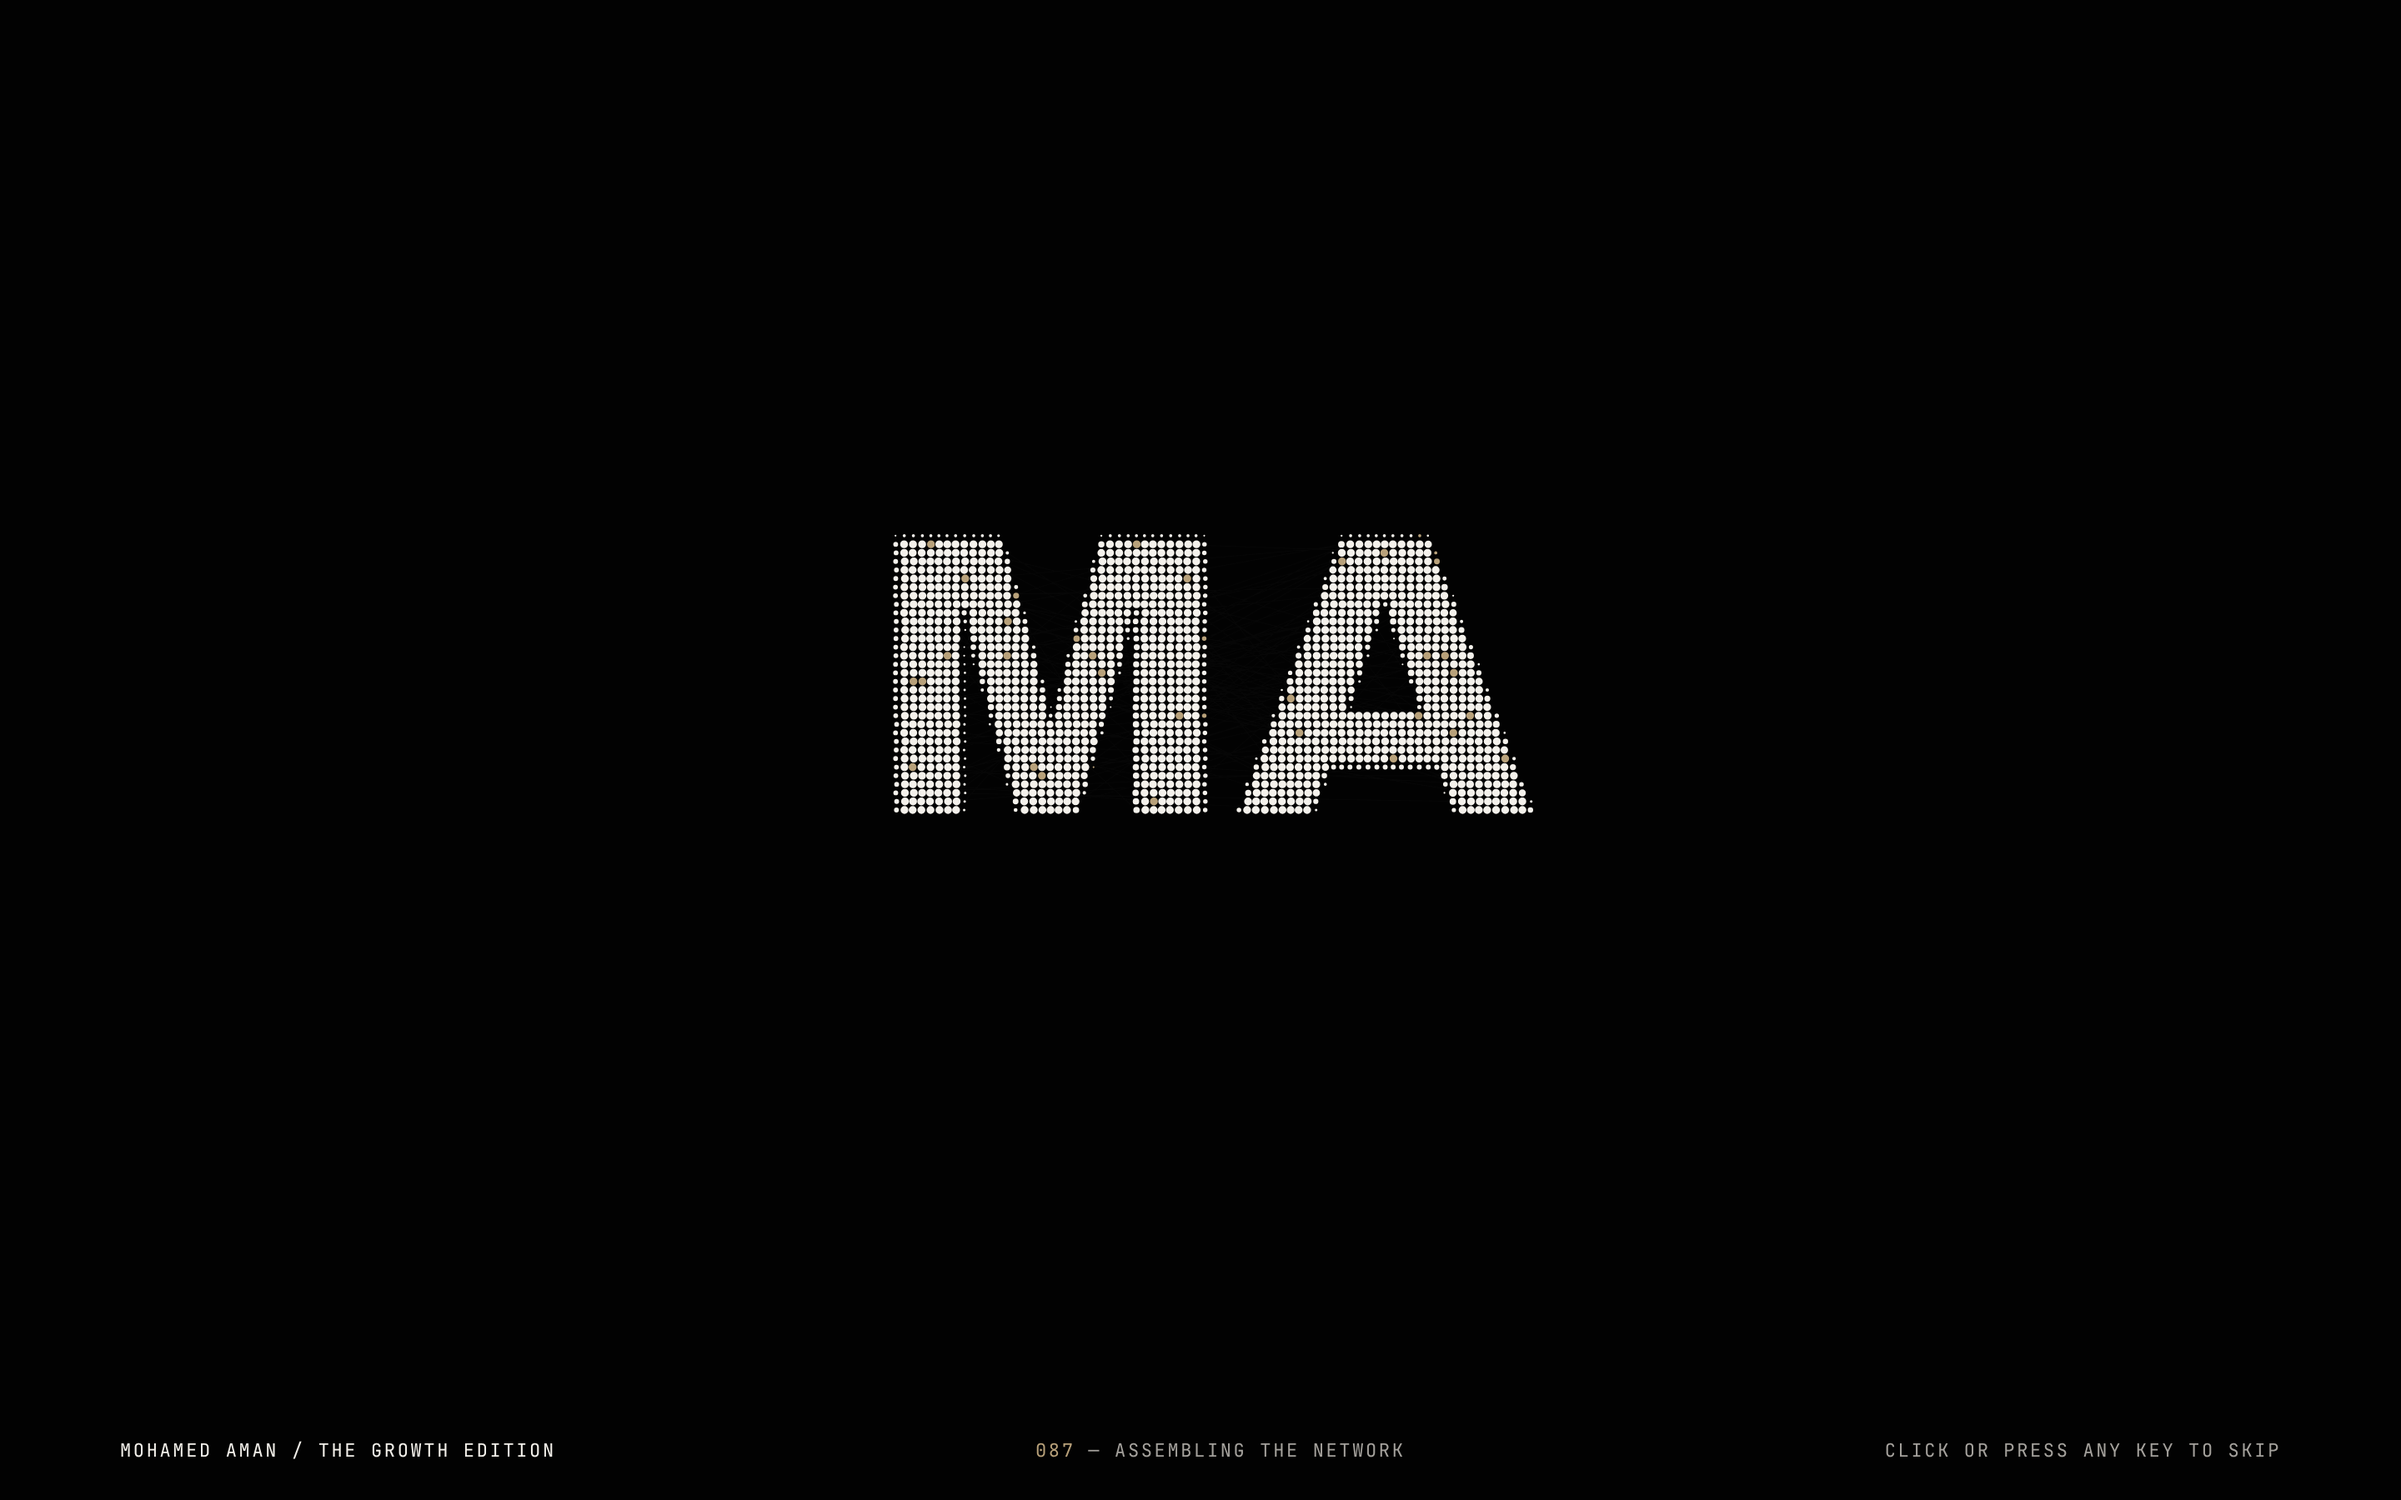
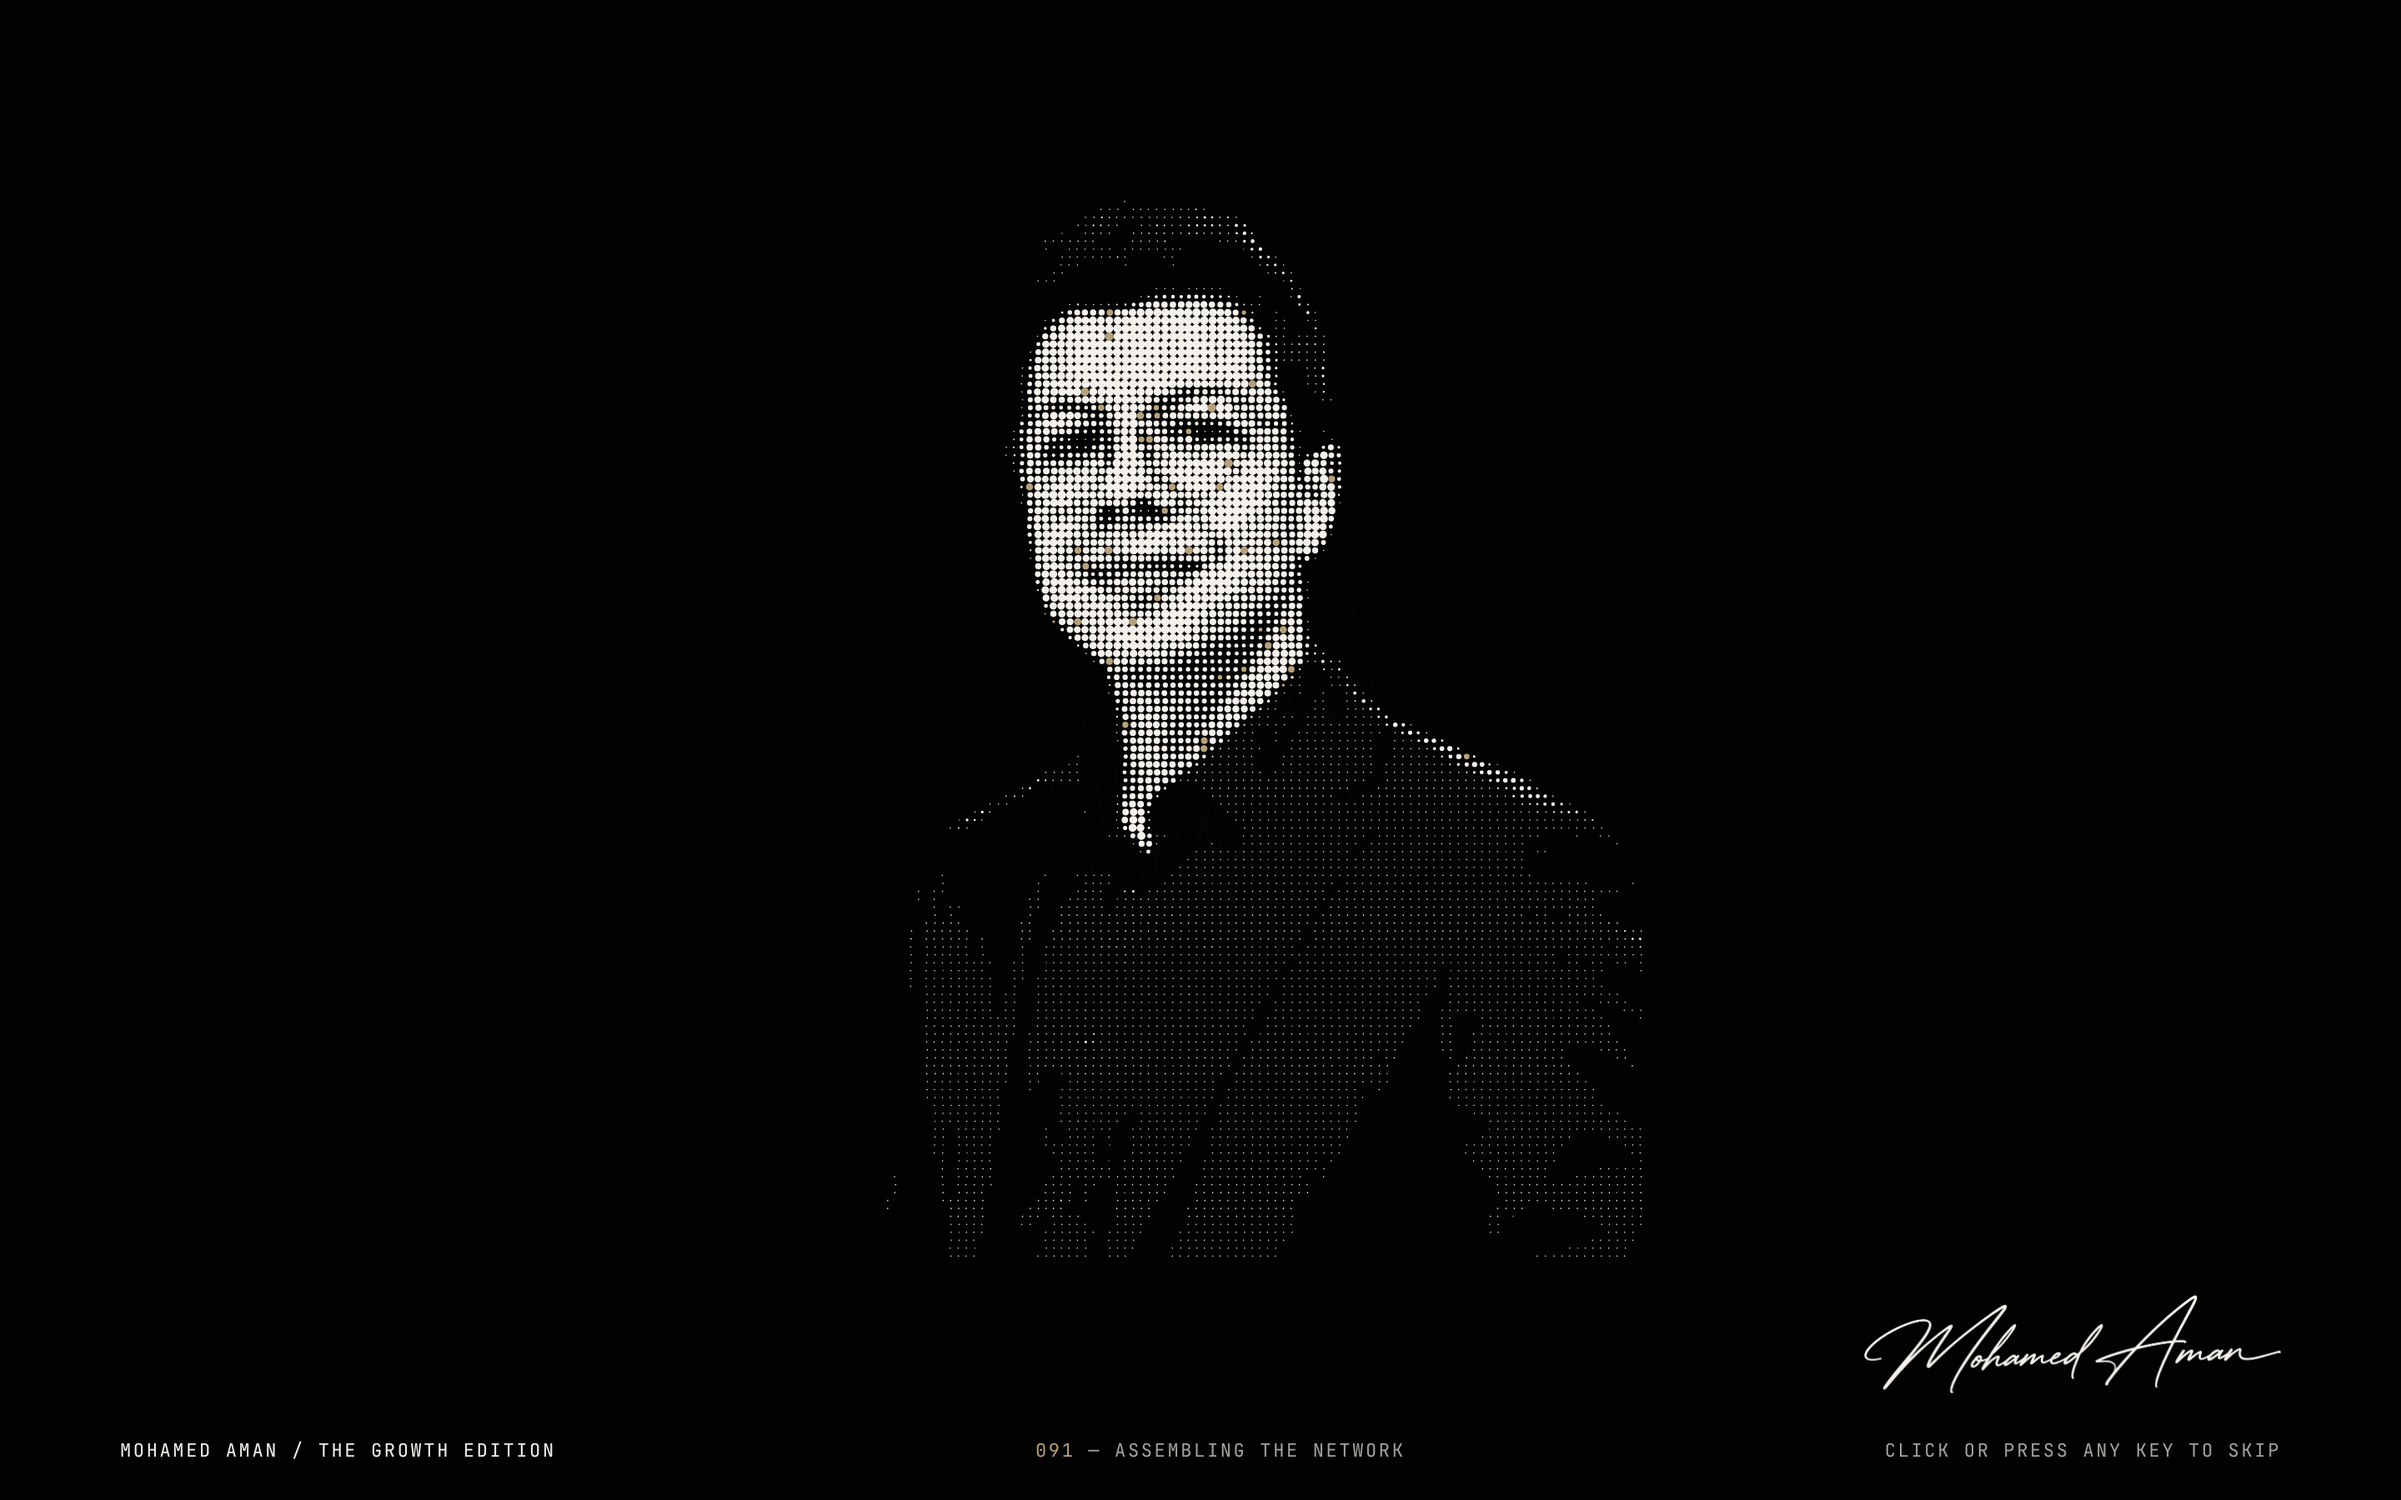
Add Mohamed's portrait, signature and photos; intro builds the portrait from dots
- Studio portrait in the Intro and About sections
- Opening intro assembles a halftone of the portrait from network dots,
  with the handwritten signature fading in
- Real signature replaces the typographic placeholder site-wide
- About page gains an 'Off the record' strip with the illustrated
  portrait and a candid photo
- Assets are picked up by filename from src/assets with placeholder fallbacks

Claude-Session: https://claude.ai/code/session_01Xw4xg9rdo12uLmioCFHsEj

Changed region(s): [[0.375, 0.1867, 0.6562, 0.56], [0.7812, 0.8711, 0.9375, 0.9333]]

diff --git a/src/components/portfolio/IntroOverlay.tsx b/src/components/portfolio/IntroOverlay.tsx
@@ -1,6 +1,7 @@
 import { useEffect, useRef, useState } from 'react';
 import { profile } from '../../data/portfolio';
-import { portraitUrl } from '../../lib/portrait';
+import { introPortraitUrl } from '../../lib/portrait';
+import Signature from './Signature';
 
 interface Dot {
   sx: number;
@@ -37,12 +38,12 @@ async function sampleFigure(cols: number): Promise<{ cols: number; rows: number;
   const g = c.getContext('2d', { willReadFrequently: true })!;
   g.fillStyle = '#000';
   g.fillRect(0, 0, cols, rows);
-  const img = portraitUrl ? await loadImage(portraitUrl) : null;
+  const img = introPortraitUrl ? await loadImage(introPortraitUrl) : null;
   if (img) {
     const s = Math.max(cols / img.width, rows / img.height);
     const w = img.width * s;
     const h = img.height * s;
-    g.filter = 'grayscale(1) contrast(1.25) brightness(1.1)';
+    g.filter = 'grayscale(1) contrast(1.3) brightness(0.98)';
     g.drawImage(img, (cols - w) / 2, (rows - h) * 0.3, w, h);
   } else {
     await Promise.race([
@@ -99,13 +100,13 @@ export default function IntroOverlay({ onDone }: { onDone(): void }) {
       const dpr = Math.min(2, window.devicePixelRatio || 1);
       canvas.width = w * dpr;
       canvas.height = h * dpr;
-      const figH = Math.min(h * 0.6, w * 0.9 * 1.25, 600);
-      const cols = w < 720 ? 56 : 84;
+      const figH = Math.min(h * 0.74, w * 0.92 * 1.25, 760);
+      const cols = w < 720 ? 72 : 112;
       const fig = await sampleFigure(cols);
       if (dead) return;
       const cell = figH / fig.rows;
       const ox = w / 2 - (fig.cols * cell) / 2;
-      const oy = h * 0.46 - figH / 2;
+      const oy = h * 0.47 - figH / 2;
       let seed = 7;
       const rnd = () => {
         seed = (seed * 16807) % 2147483647;
@@ -115,7 +116,7 @@ export default function IntroOverlay({ onDone }: { onDone(): void }) {
       for (let y = 0; y < fig.rows; y++) {
         for (let x = 0; x < fig.cols; x++) {
           const l = fig.cells[y * fig.cols + x];
-          if (l < 0.13) continue;
+          if (l < 0.06) continue;
           const tx = ox + (x + 0.5) * cell;
           const ty = oy + (y + 0.5) * cell;
           const a = Math.atan2(ty - h / 2, tx - w / 2) + (rnd() - 0.5) * 0.9;
@@ -125,7 +126,7 @@ export default function IntroOverlay({ onDone }: { onDone(): void }) {
             sy: rnd() * h,
             tx,
             ty,
-            r: Math.max(0.5, cell * 0.46 * Math.pow(l, 0.8)),
+            r: Math.max(0.4, cell * 0.56 * Math.pow(l, 1.15)),
             delay: rnd() * 0.45,
             vx: Math.cos(a) * speed,
             vy: Math.sin(a) * speed,
@@ -211,6 +212,9 @@ export default function IntroOverlay({ onDone }: { onDone(): void }) {
   return (
     <div className={`intro-overlay${leaving ? ' is-leaving' : ''}`} role="presentation">
       <canvas ref={canvasRef} aria-hidden="true" />
+      <div className="intro-overlay__sig">
+        <Signature />
+      </div>
       <div className="intro-overlay__bar">
         <p className="micro">
           {profile.name} <span aria-hidden="true">/</span> {profile.edition}

diff --git a/src/styles/app.css b/src/styles/app.css
@@ -795,6 +795,9 @@ h3 {
   margin: 0 auto;
 }
 .chapter--flush {
+  width: 100%;
+  max-width: none;
+  margin: 0;
   padding-inline: 0;
   padding-block: 56px;
   border-bottom: 0;
@@ -903,6 +906,46 @@ h3 {
   transform: rotate(-4deg);
   transform-origin: left bottom;
   padding: 6px 8px 0 0;
+}
+.signature__img {
+  display: block;
+  width: clamp(170px, 20vw, 250px);
+  height: auto;
+}
+.intro-overlay__sig {
+  position: absolute;
+  right: var(--gutter);
+  bottom: 64px;
+  opacity: 0;
+  animation: sig-in 0.9s ease 1.5s forwards;
+}
+@keyframes sig-in {
+  to {
+    opacity: 1;
+  }
+}
+.sides {
+  display: grid;
+  grid-template-columns: minmax(0, 1fr) minmax(0, 1fr) minmax(0, 1.1fr);
+  gap: clamp(16px, 3vw, 40px);
+  align-items: end;
+}
+.sides figure {
+  display: grid;
+  gap: 8px;
+}
+.sides img {
+  display: block;
+  width: 100%;
+  height: auto;
+  aspect-ratio: 3 / 4;
+  object-fit: cover;
+  border: 1px solid var(--border);
+  filter: grayscale(1) contrast(1.05);
+  transition: filter 0.6s ease;
+}
+.sides figure:hover img {
+  filter: none;
 }
 .signature__note {
   font-size: 9px;
@@ -1641,8 +1684,7 @@ h3 {
   width: 100%;
   height: 100%;
   object-fit: cover;
-  object-position: center 25%;
-  filter: grayscale(1) contrast(1.05);
+  object-position: center 20%;
 }
 
 /* ───────────── responsive ───────────── */
@@ -1708,6 +1750,17 @@ h3 {
   }
   .rail__label {
     display: none;
+  }
+  .sides {
+    grid-template-columns: 1fr 1fr;
+  }
+  .sides .lede {
+    grid-column: 1 / -1;
+  }
+  .intro-overlay__sig {
+    right: auto;
+    left: var(--gutter);
+    bottom: 92px;
   }
   .intro-overlay__skip {
     display: none;

diff --git a/src/pages/About.tsx b/src/pages/About.tsx
@@ -2,6 +2,7 @@ import { Link } from 'react-router-dom';
 import Portrait from '../components/portfolio/Portrait';
 import Signature from '../components/portfolio/Signature';
 import { expertise, hubs, profile } from '../data/portfolio';
+import { candidUrl, illustrationUrl } from '../lib/portrait';
 
 export default function About() {
   return (
@@ -33,6 +34,29 @@ export default function About() {
           <Signature />
         </div>
       </div>
+
+      {(illustrationUrl || candidUrl) && (
+        <section className="chapter chapter--flush">
+          <h2>Off the record</h2>
+          <div className="sides">
+            {illustrationUrl && (
+              <figure className="rv">
+                <img src={illustrationUrl} alt="Illustrated portrait of Mohamed Aman in round sunglasses" loading="lazy" width="800" height="1096" />
+                <figcaption className="micro">The illustrated version</figcaption>
+              </figure>
+            )}
+            {candidUrl && (
+              <figure className="rv">
+                <img src={candidUrl} alt="Mohamed Aman in sunglasses, smiling and giving a thumbs up" loading="lazy" width="1000" height="1333" />
+                <figcaption className="micro">Between campaigns</figcaption>
+              </figure>
+            )}
+            <p className="lede">
+              Serious about the numbers, relaxed about everything else. Good marketing is made by people — it helps to be one.
+            </p>
+          </div>
+        </section>
+      )}
 
       <section className="chapter chapter--flush">
         <h2>How the work is approached</h2>

diff --git a/src/lib/portrait.ts b/src/lib/portrait.ts
@@ -1,12 +1,23 @@
 /**
- * Drop Mohamed's real photo at `src/assets/portrait.webp` (or .jpg / .jpeg / .png).
- * It is picked up automatically: the opening intro builds it out of dots and the
- * Intro / About sections show it. With no file present, labelled placeholders are used.
+ * Mohamed's own media, picked up automatically from `src/assets/`:
+ *   portrait.*        studio portrait (Intro / About)
+ *   portrait-intro.*  tighter head-and-shoulders crop that the opening intro builds out of dots
+ *   signature.*       handwritten signature (white ink, transparent background)
+ *   illustration.*    illustrated portrait
+ *   candid.*          informal photo
+ * Any that is missing falls back to a labelled placeholder or is simply left out.
  */
-const found = import.meta.glob('../assets/portrait.{webp,jpg,jpeg,png}', {
+const found = import.meta.glob('../assets/*.{webp,jpg,jpeg,png,svg}', {
   eager: true,
   query: '?url',
   import: 'default',
 }) as Record<string, string>;
 
-export const portraitUrl: string | undefined = Object.values(found)[0];
+const pick = (name: string): string | undefined =>
+  Object.entries(found).find(([path]) => path.split('/').pop()!.replace(/\.[^.]+$/, '') === name)?.[1];
+
+export const portraitUrl = pick('portrait');
+export const introPortraitUrl = pick('portrait-intro') ?? portraitUrl;
+export const signatureUrl = pick('signature');
+export const illustrationUrl = pick('illustration');
+export const candidUrl = pick('candid');

diff --git a/src/components/portfolio/Signature.tsx b/src/components/portfolio/Signature.tsx
@@ -1,10 +1,15 @@
 import { profile } from '../../data/portfolio';
+import { signatureUrl } from '../../lib/portrait';
 
-/**
- * Typographic stand-in. Replace with the real handwriting asset at /media/mohamed-signature.svg
- * (see README) — this is NOT Mohamed's authentic signature.
- */
+/** Mohamed's handwritten signature (`src/assets/signature.*`), or a labelled typographic stand-in without it. */
 export default function Signature() {
+  if (signatureUrl) {
+    return (
+      <p className="signature">
+        <img className="signature__img" src={signatureUrl} alt={`${profile.name} — signature`} width="1005" height="236" loading="lazy" />
+      </p>
+    );
+  }
   return (
     <p className="signature" title="Typographic placeholder — the real handwritten signature will replace this">
       <span className="signature__ink">{profile.name}</span>

diff --git a/src/components/portfolio/Portrait.tsx b/src/components/portfolio/Portrait.tsx
@@ -5,7 +5,7 @@ export default function Portrait() {
   if (portraitUrl) {
     return (
       <div className="portrait portrait--photo">
-        <img src={portraitUrl} alt="Mohamed Aman" loading="lazy" />
+        <img src={portraitUrl} alt="Mohamed Aman in a black suit and black shirt, against a black background" width="800" height="1000" />
       </div>
     );
   }

diff --git a/README.md b/README.md
@@ -69,10 +69,17 @@ On the first visit of a browser session the home page opens with a dot sequence:
 dots gather into a figure, hold, then burst outward as the site opens. Any click or key skips it,
 and it is disabled under `prefers-reduced-motion`.
 
-**To use Mohamed's real photo:** save it as `src/assets/portrait.webp` (or `.jpg` / `.jpeg` / `.png`).
-Nothing else needs editing — the intro then builds the portrait out of dots (a halftone sampled from
-the photo) and the Intro / About sections show it. A front-facing photo with a plain or dark
-background reads best. Until the file exists the intro forms the `MA` monogram.
+**Mohamed's media lives in `src/assets/`** and is picked up by filename (see `src/lib/portrait.ts`):
+
+| File | Used for |
+| --- | --- |
+| `portrait.webp` | Intro and About portrait (4:5 crop of the studio photo) |
+| `portrait-intro.webp` | Tighter head-and-shoulders crop, shadows lifted, that the intro builds out of dots |
+| `signature.webp` | Handwritten signature, white ink on transparent (intro, Intro, About, footer) |
+| `illustration.webp`, `candid.webp` | "Off the record" strip on the About page |
+
+Replace a file with the same name to swap it. If a file is removed, the site falls back to a
+labelled placeholder (portrait, signature) or leaves the block out.
 
 ## Motion and navigation
 
@@ -81,17 +88,14 @@ background reads best. Until the file exists the intro forms the `MA` monogram.
 - A floating chapter rail shows `03 / 07` with `↑ ↓` arrows to turn chapters, plus a scroll-progress line.
 - Sections reveal on scroll, numbers count up, chapter numerals drift (CSS scroll timelines where supported).
 
-## Media still needed (placeholders are in place)
+## Media still needed
 
 | Asset | Put it at | Then |
 | --- | --- | --- |
-| Real portrait | `src/assets/portrait.webp` | nothing — it is picked up automatically (intro + Intro/About) |
-| Real handwritten signature | `public/media/mohamed-signature.svg` | swap the typographic stand-in in `components/portfolio/Signature.tsx` |
 | Dahsha / ZezeWigs / Prestige visuals | `public/media/<slug>/` | replace `ProjectArt` in the case-study hero and gallery |
 | Other approved client art, clips | `public/media/projects/<slug>/` | same |
 
-The portrait, signature and all project art are clearly labelled placeholders — none is presented
-as authentic. Review public-use permission for each client name before publishing.
+Project art is clearly labelled placeholder artwork — none of it is presented as a real ad. Review public-use permission for each client name before publishing.
 
 ## Network controls
 
